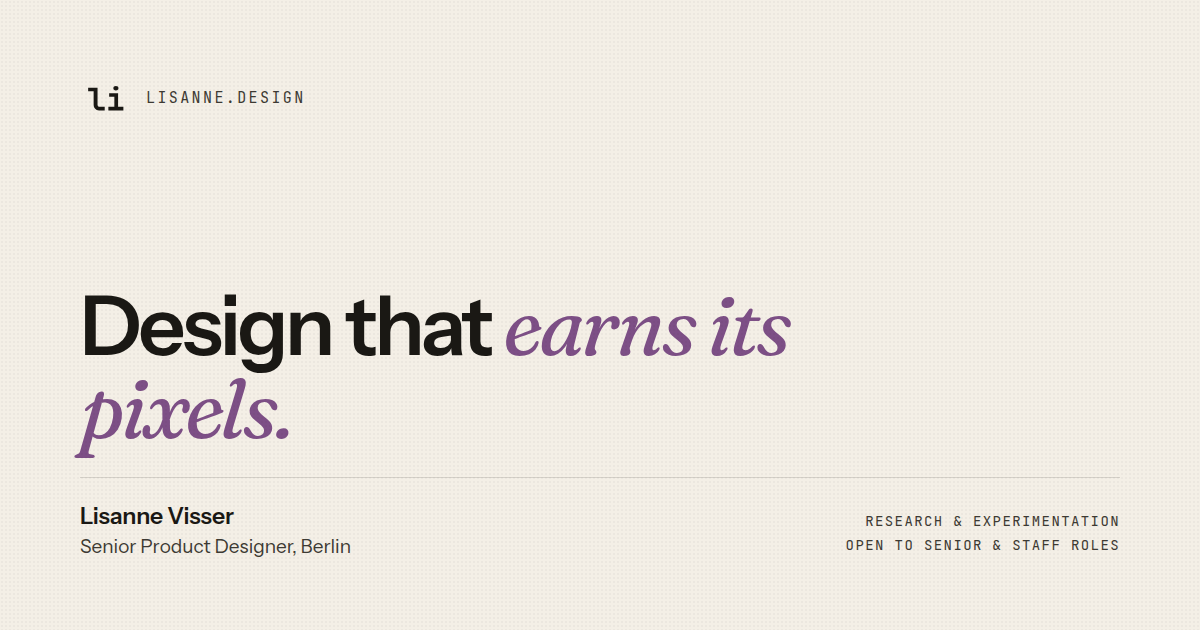
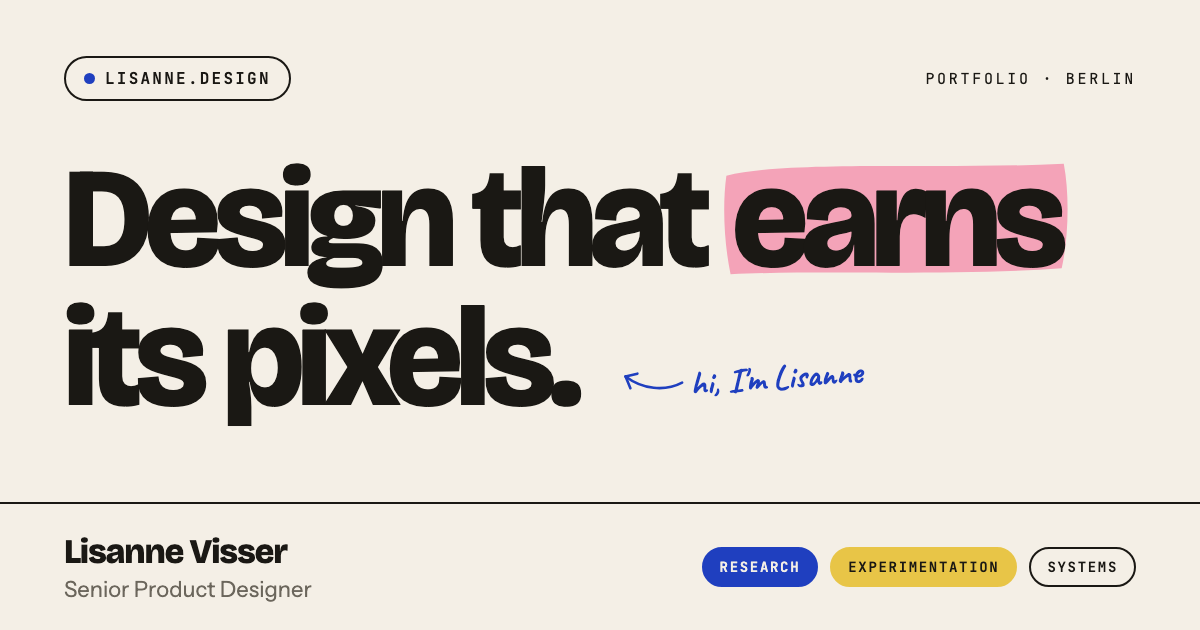
Social preview: new share card in the Bold Type style
The share card still showed the old serif headline. It now matches the
current home: Bricolage headline with the rose highlight on "earns", the
lisanne.design pill, a hand-note, and a footer with name, role and tags.

- images/og-card.png re-rendered (1200x630), source in og/og-card.html
- ?v= on og:image and twitter:image so platforms refetch
- descriptions drop the past "Q3 2026" date
- twitter:image:alt added, alt text describes the new card

diff --git a/og/og-card.html b/og/og-card.html
@@ -1,0 +1,37 @@
+<!doctype html>
+<!-- Source of images/og-card.png (the social share card, 1200x630).
+     Re-render from the repo root:
+     "/Applications/Google Chrome.app/Contents/MacOS/Google Chrome" --headless=new --hide-scrollbars \
+       --force-device-scale-factor=1 --allow-file-access-from-files --virtual-time-budget=3000 \
+       --window-size=1200,630 --screenshot=images/og-card.png og/og-card.html
+     Then bump the ?v= on og:image and twitter:image in index.html. --><html lang="en"><head><meta charset="utf-8"><title>Share card</title><meta name="robots" content="noindex"><style>
+@font-face{font-family:"Bricolage Grotesque";src:url("../fonts/bricolage-grotesque-latin-wght-normal.woff2") format("woff2");font-weight:200 800}
+@font-face{font-family:"Instrument Sans";src:url("../fonts/instrument-sans-latin-wght-normal.woff2") format("woff2");font-weight:400 700}
+@font-face{font-family:"JetBrains Mono";src:url("../fonts/jetbrains-mono-latin-wght-normal.woff2") format("woff2");font-weight:100 800}
+@font-face{font-family:"Caveat";src:url("../fonts/caveat-latin-wght-normal.woff2") format("woff2");font-weight:400 700}
+:root{--paper:#f4efe6;--ink:#1a1814;--ink-3:#6b665c;--rose:#f4a3b8;--cobalt:#1f3fbf;--mustard:#e8c547}
+*{box-sizing:border-box}html,body{margin:0;width:1200px;height:630px;overflow:hidden}
+body{background:var(--paper);color:var(--ink);font-family:"Instrument Sans",sans-serif;position:relative}
+.top{position:absolute;left:64px;right:64px;top:56px;display:flex;align-items:center;justify-content:space-between}
+.logo{display:flex;align-items:center;gap:10px;font-family:"JetBrains Mono";font-size:16px;letter-spacing:.14em;text-transform:uppercase;font-weight:600;padding:10px 18px;border:2px solid var(--ink);border-radius:999px}
+.logo::before{content:"";width:11px;height:11px;border-radius:50%;background:var(--cobalt)}
+.kicker{font-family:"JetBrains Mono";font-size:15px;letter-spacing:.18em;text-transform:uppercase;color:var(--ink)}
+h1{position:absolute;left:64px;top:150px;margin:0;font-family:"Bricolage Grotesque";font-weight:800;letter-spacing:-.05em;line-height:.98;font-size:142px}
+.mark{position:relative;display:inline-block;padding:0 .04em}
+.mark svg{position:absolute;z-index:0;left:-.06em;top:.03em;width:calc(100% + .12em);height:92%}
+.mark svg path{fill:var(--rose)}.mark span{position:relative;z-index:1}
+.note{position:absolute;left:690px;top:356px;font-family:"Caveat";font-size:34px;font-weight:600;color:var(--cobalt);transform:rotate(-4deg)}
+.note svg{position:absolute;left:-70px;top:-6px;width:66px;height:40px;fill:none;stroke:var(--cobalt);stroke-width:2.6;stroke-linecap:round}
+.foot{position:absolute;left:0;right:0;bottom:0;height:128px;border-top:2px solid var(--ink);display:flex;align-items:center;justify-content:space-between;padding:0 64px}
+.name{font-family:"Bricolage Grotesque";font-weight:800;font-size:34px;letter-spacing:-.03em}
+.role{font-size:22px;color:var(--ink-3);margin-top:4px}
+.tags{display:flex;gap:12px}
+.tag{font-family:"JetBrains Mono";font-size:14px;letter-spacing:.12em;text-transform:uppercase;font-weight:600;padding:9px 16px;border-radius:999px;border:2px solid var(--ink)}
+.tag.c{background:var(--cobalt);border-color:var(--cobalt);color:var(--paper)}.tag.m{background:var(--mustard);border-color:var(--mustard)}
+</style></head><body>
+<div class="top"><div class="logo">lisanne.design</div><div class="kicker">Portfolio · Berlin</div></div>
+<h1>Design that <span class="mark"><svg viewBox="0 0 340 130" preserveAspectRatio="none"><path d="M8 22 C 70 6, 210 16, 330 10 C 336 44, 334 88, 328 116 C 232 124, 96 118, 12 122 C 6 92, 4 52, 8 22 Z"/></svg><span>earns</span></span><br>its pixels.</h1>
+<div class="note"><svg viewBox="0 0 66 40"><path d="M62 26 C 44 34, 22 30, 6 16"/><path d="M6 16 L 18 14"/><path d="M6 16 L 10 28"/></svg>hi, I'm Lisanne</div>
+<div class="foot"><div><div class="name">Lisanne Visser</div><div class="role">Senior Product Designer</div></div>
+<div class="tags"><span class="tag c">Research</span><span class="tag m">Experimentation</span><span class="tag">Systems</span></div></div>
+</body></html>

diff --git a/index.html b/index.html
@@ -4,7 +4,7 @@
   <meta charset="utf-8" />
   <meta name="viewport" content="width=device-width, initial-scale=1" />
   <title>Lisanne Visser — Senior Product Designer</title>
-  <meta name="description" content="Generalist product designer with a research &amp; experimentation spine. Based in Berlin. Open to senior &amp; staff roles — Q3 2026." />
+  <meta name="description" content="Generalist product designer with a research &amp; experimentation spine. Based in Berlin. Open to senior &amp; staff roles." />
   <meta name="theme-color" content="#faf7f1" />
 
   <!-- Canonical and sharing. These five absolute URLs are the only place the
@@ -16,15 +16,16 @@
   <meta property="og:site_name" content="Lisanne Visser" />
   <meta property="og:locale" content="en_US" />
   <meta property="og:title" content="Lisanne Visser — Senior Product Designer" />
-  <meta property="og:description" content="Generalist product designer with a research &amp; experimentation spine. Based in Berlin. Open to senior &amp; staff roles — Q3 2026." />
-  <meta property="og:image" content="https://lisannevisser.github.io/portfolio/images/og-card.png" />
+  <meta property="og:description" content="Generalist product designer with a research &amp; experimentation spine. Based in Berlin. Open to senior &amp; staff roles." />
+  <meta property="og:image" content="https://lisannevisser.github.io/portfolio/images/og-card.png?v=2026-10-27" />
   <meta property="og:image:width" content="1200" />
   <meta property="og:image:height" content="630" />
-  <meta property="og:image:alt" content="Design that earns its pixels. Lisanne Visser, Senior Product Designer, Berlin." />
+  <meta property="og:image:alt" content="Design that earns its pixels. A hand-drawn pink highlight marks the word earns. Lisanne Visser, Senior Product Designer, with the tags Research, Experimentation and Systems." />
   <meta name="twitter:card" content="summary_large_image" />
   <meta name="twitter:title" content="Lisanne Visser — Senior Product Designer" />
-  <meta name="twitter:description" content="Generalist product designer with a research &amp; experimentation spine. Based in Berlin. Open to senior &amp; staff roles — Q3 2026." />
-  <meta name="twitter:image" content="https://lisannevisser.github.io/portfolio/images/og-card.png" />
+  <meta name="twitter:description" content="Generalist product designer with a research &amp; experimentation spine. Based in Berlin. Open to senior &amp; staff roles." />
+  <meta name="twitter:image" content="https://lisannevisser.github.io/portfolio/images/og-card.png?v=2026-10-27" />
+  <meta name="twitter:image:alt" content="Design that earns its pixels. A hand-drawn pink highlight marks the word earns. Lisanne Visser, Senior Product Designer, with the tags Research, Experimentation and Systems." />
 
   <!-- Provisional favicon: "li" set in JetBrains Mono, the same mono as the
        top nav, converted to outlines. Variant B ("l." with the dot) sits next
